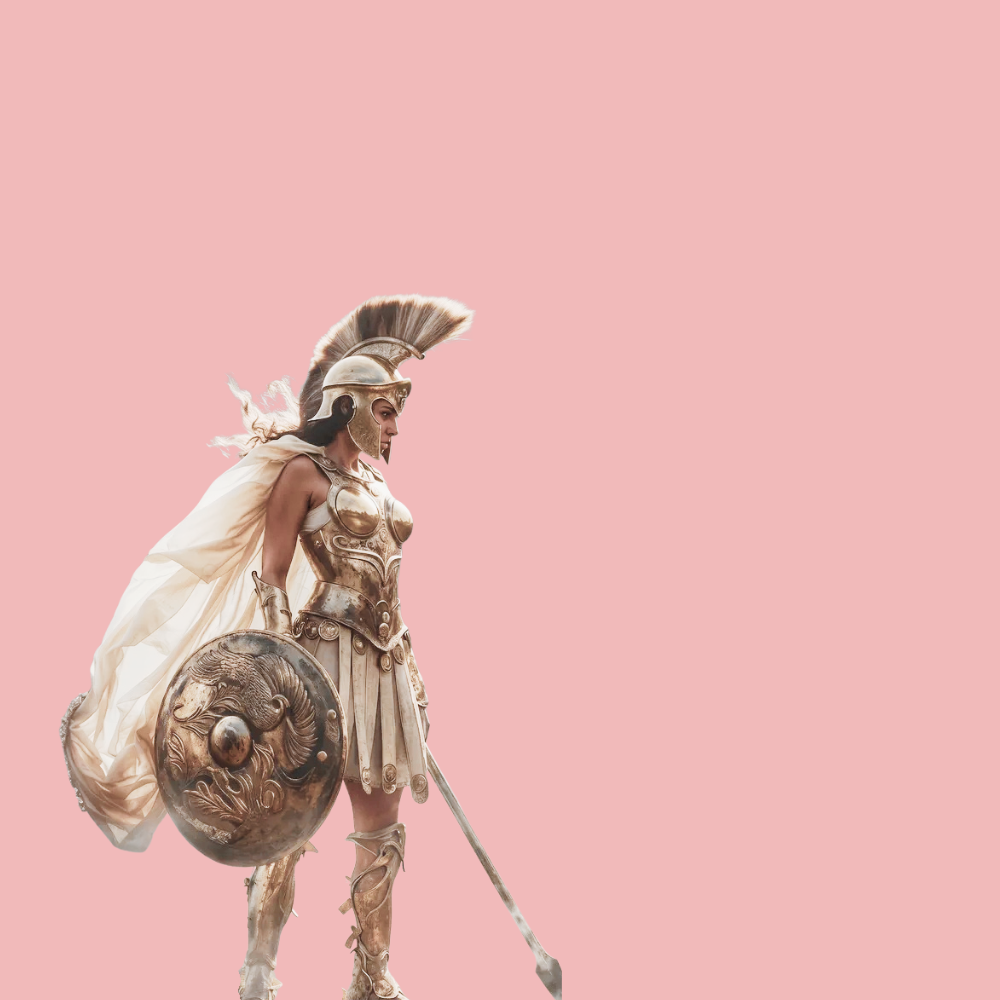
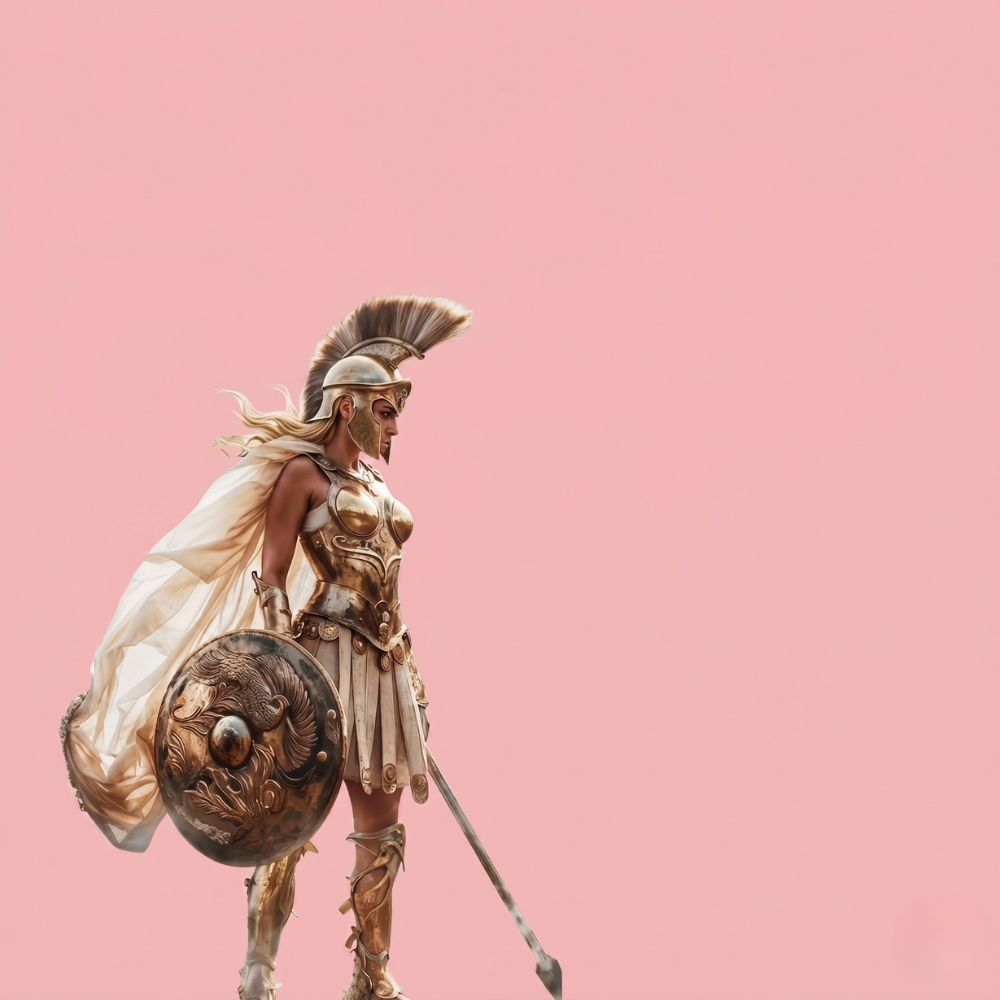
Replace login hero with HQ version, nudge wordmark left of center
Swapped PNG for edited HQ version (587KB base64 inline).
Wordmark and form now span from left edge to ~58% of screen width,
placing them just left of center in the open pink area.

Changed region(s): [[0.062, 0.279, 0.527, 1.0], [0.527, 0.93, 0.589, 1.0]]

diff --git a/src/pages/Login.jsx b/src/pages/Login.jsx
@@ -210,14 +210,13 @@ export default function Login() {
         </div>
       )}
 
-      {/* ── Login form (right-side, lower) ────────────────────────────── */}
+      {/* ── Login form ────────────────────────────────────────────────── */}
       {phase === 'form' && (
         <div style={{
           position: 'fixed',
           bottom: 'calc(env(safe-area-inset-bottom) + 100px)',
-          right: 0,
-          width: 'min(320px, 55%)',
-          padding: '0 36px 0 16px',
+          left: 0, right: 0,
+          padding: '0 calc(40% + 16px) 0 16px',
           animation: 'fadeUp 0.5s cubic-bezier(0.22, 1, 0.36, 1)',
           zIndex: 10,
           opacity: authed ? 0 : 1,
@@ -280,15 +279,14 @@ export default function Login() {
         </div>
       )}
 
-      {/* ── ATHENA wordmark (upper right, clear pink area) ────────────── */}
+      {/* ── ATHENA wordmark — centered, nudged slightly left ─────────── */}
       <div
         onClick={handleWordmarkTap}
         style={{
           position: 'fixed',
           top: 'calc(env(safe-area-inset-top) + 52px)',
-          right: 0,
-          width: 'min(340px, 58%)',
-          padding: '0 36px 0 16px',
+          left: 0, right: 0,
+          padding: '0 calc(42% + 12px) 0 16px',
           cursor: phase === 'idle' ? 'pointer' : 'default',
           zIndex: 10,
           opacity: phase === 'form' ? 0.5 : 1,